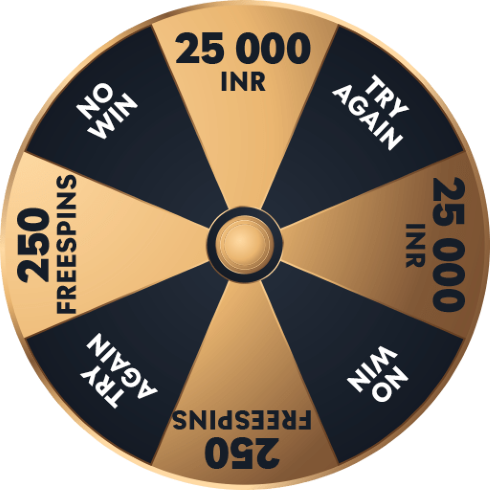
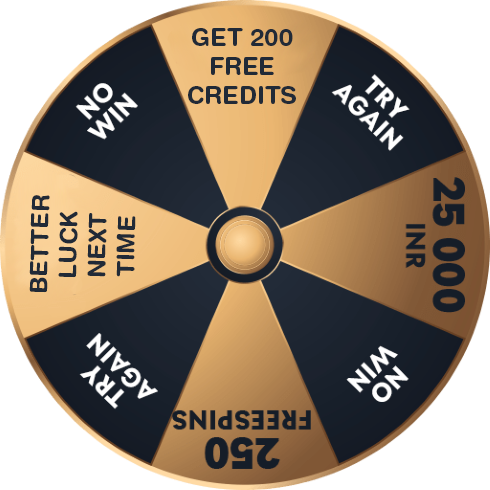
update

Changed region(s): [[0.0306, 0.3367, 0.2755, 0.6429], [0.3367, 0.0306, 0.6429, 0.2143]]

diff --git a/index.html b/index.html
@@ -327,7 +327,9 @@
       <main class="main">
         <header class="header">
           <div class="header__left">
-            <a class="header__left-logo" href="https://oppa88888888.com/en/"
+            <a
+              class="header__left-logo"
+              href="https://oppa90px90px90px90px.com/en/"
               ><img
                 src="img/logo/logo-casino-new.png"
                 style="
@@ -357,20 +359,52 @@
                 <div class="lights lights_one"></div>
                 <div class="lights lights_two"></div>
                 <div class="lights-content">
-                  <div class="lights-content__counter"></div>
-                  <span class="lights-content__bonus">You won</span
-                  ><span class="lights-content__value">25 000</span
-                  ><span class="lights-content__subtitle">inr</span>
+                  <!-- <div class="lights-content__counter"></div> -->
+                  <span
+                    class="lights-content__bonus"
+                    style="font-size: 15px !important; margin-right: 90px"
+                    >Get 200</span
+                  >
+                  <span
+                    class="lights-content__value"
+                    style="font-size: 15px !important; margin-right: 90px"
+                    >Free <br />
+                    Credits</span
+                  >
+                  <!-- <span
+                    class="lights-content__subtitle"
+                    style="
+                      font-size: 15px !important;
+                      text-align: center !important;
+                      margin-right: 90px;
+                    "
+                    >inr</span
+                  > -->
                 </div>
               </div>
+
               <div class="main__achievements-spin hide">
                 <div class="lights lights_one"></div>
                 <div class="lights lights_two"></div>
-                <div class="lights-content">
-                  <div class="lights-content__counter"></div>
-                  <span class="lights-content__bonus">You won</span
-                  ><span class="lights-content__value">250</span
-                  ><span class="lights-content__subtitle">freespins</span>
+                <div
+                  class="lights-content"
+                  style="text-align: center !important"
+                >
+                  <!-- <div class="lights-content__counter"></div> -->
+                  <span
+                    class="lights-content__bonus"
+                    style="font-size: 15px !important; margin-right: 90px"
+                    >Better Luck</span
+                  ><span
+                    class="lights-content__value"
+                    style="font-size: 15px !important; margin-right: 90px"
+                    >Next Time
+                  </span>
+                  <!-- <span
+                    class="lights-content__subtitle"
+                    style="font-size: 15px !important; margin-right: 90px"
+                    >freespins</span
+                  > -->
                 </div>
               </div>
             </div>
@@ -424,7 +458,7 @@
               <div class="title__header"><h1>Sign-up</h1></div>
               <div class="title__subheader">
                 <h2>YOU WON</h2>
-                <h3>25 000 INR and 250 Free spins</h3>
+                <h3>Get 200 Free Credits</h3>
               </div>
               <div class="title__img">
                 <div class="title__img-item">
@@ -782,7 +816,7 @@
                       >Already have an account?</span
                     ><a
                       class="forms__signin-link redirectlink"
-                      href="https://oppa88888888.com/en/"
+                      href="https://oppa90px90px90px90px.com/en/"
                       >Login</a
                     >
                   </div>

diff --git a/main.css b/main.css
@@ -2917,9 +2917,11 @@ body {
   -webkit-justify-content: space-between;
   justify-content: space-between;
   position: absolute;
-  top: 50%;
-  left: 50%;
+  /* top: 80%; */
+  left: 60%;
   z-index: 2;
+  margin-left: 24px;
+  margin-top: 100%;
   -webkit-transform: translateX(-50%);
   transform: translateX(-50%);
   width: 200%;
@@ -2963,8 +2965,8 @@ body {
 }
 .main__achievements-bonus,
 .main__achievements-spin {
-  background: url(img/win.png) no-repeat  0.7vw;
-  background-size: 92% 60%;
+  background: url(img/win.png) no-repeat  0.9vw;
+  background-size: 60% 50%;
   opacity: .85;
   width: 535px;
   height: 480px;
@@ -2973,6 +2975,7 @@ body {
   -webkit-animation-duration: 1s;
   animation-duration: 1s;
   position: relative;
+
 }
 @media screen and (max-width: 1919.9px) {
   .main__achievements-bonus,
@@ -2993,12 +2996,14 @@ body {
   .main__achievements-spin {
     width: 223px;
     height: 200px;
+    /* top:-315px; */
   }
 }
-@media screen and (max-width: 479.9px) {
+@media screen and (max-width: 475.9px) {
   .main__achievements-bonus,
   .main__achievements-spin {
     width: 46vw;
+    top:-315px;
     height: 41vw;
   }
 }
@@ -3672,9 +3677,11 @@ body {
 @keyframes appearing {
   0% {
     opacity: 0;
+    /* margin:-100px; */
   }
   to {
     opacity: 1;
+    /* margin:-100px; */
   }
 }
 @-webkit-keyframes wheel-shake-1 {
@@ -3825,7 +3832,7 @@ body {
   display: -webkit-flex;
   display: flex;
   -webkit-align-items: center;
-  align-items: center;
+  align-items: center !important;
   -webkit-justify-content: center;
   justify-content: center;
   -webkit-flex-direction: column;
@@ -3835,8 +3842,9 @@ body {
   padding: 20px;
   position: relative;
   text-transform: uppercase;
-  letter-spacing: 3px;
-  font-weight: 700;
+  letter-spacing: 2px;
+  font-weight: 600;
+  margin-left:-12px;
   font-size: 42px;
   text-shadow: 1px 1px 1px rgba(48, 46, 37, 0.35),
     0 0 1px rgba(48, 46, 37, 0.35);
@@ -3849,13 +3857,14 @@ body {
 }
 @media screen and (max-width: 1365.9px) {
   .lights-content {
-    font-size: 18px;
+    font-size: 12px;
   }
 }
 @media screen and (max-width: 919.9px) {
   .lights-content {
     font-size: 14px;
-    padding: 12px;
+    margin-left:5px;
+    /* padding: 12px; */
   }
 }
 @media screen and (max-width: 479.9px) {
@@ -3916,7 +3925,7 @@ body {
   }
 }
 .lights-content__value {
-  font-size: 70px;
+  font-size: 50px;
   color: #fff;
   -webkit-text-stroke: 0;
 }
@@ -3932,7 +3941,7 @@ body {
 }
 @media screen and (max-width: 919.9px) {
   .lights-content__value {
-    font-size: 22px;
+    font-size: 12px;
   }
 }
 @media screen and (max-width: 479.9px) {
@@ -3969,7 +3978,7 @@ body {
   height: 16px;
   top: 14px;
   left: 14px;
-  font-size: 12px;
+  font-size: 1px;
 }
 @media screen and (orientation: landscape) and (max-height: 420px) and (min-aspect-ratio: 13/9) {
   .modal .lights-content__counter {
